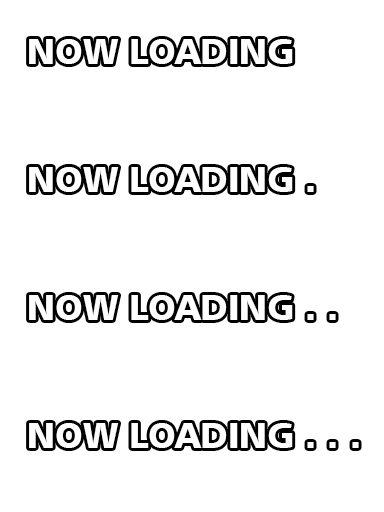
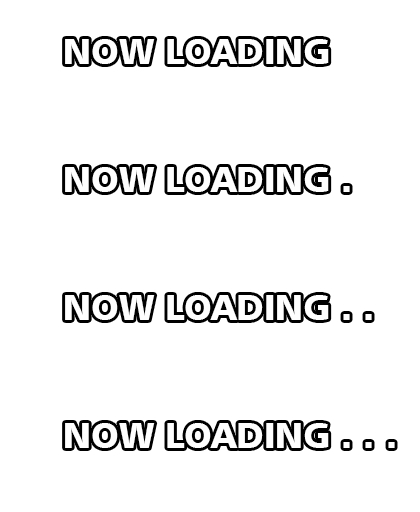
add slime asset

diff --git a/src/ts/library/AssetLoading.ts b/src/ts/library/AssetLoading.ts
@@ -17,10 +17,15 @@ export const Assets: CustomTypes.Asset.ObjectAsset = {
 		url: 'assets/img/loading/img_bg_loading.png',
 		type: 'STATIC'
 	},
+	slime_loading: {
+		key: 'slime_loading',
+		url: 'assets/img/loading/img_slime_loading.png',
+		type: 'STATIC'
+	},
 	loading_text: {
 		key: 'loading_text',
 		url: 'assets/img/loading/spr_loading-text.png',
-		width: 384,
+		width: 420,
 		height: 512/4,
 		type: 'SPRITESHEET'
 	},
